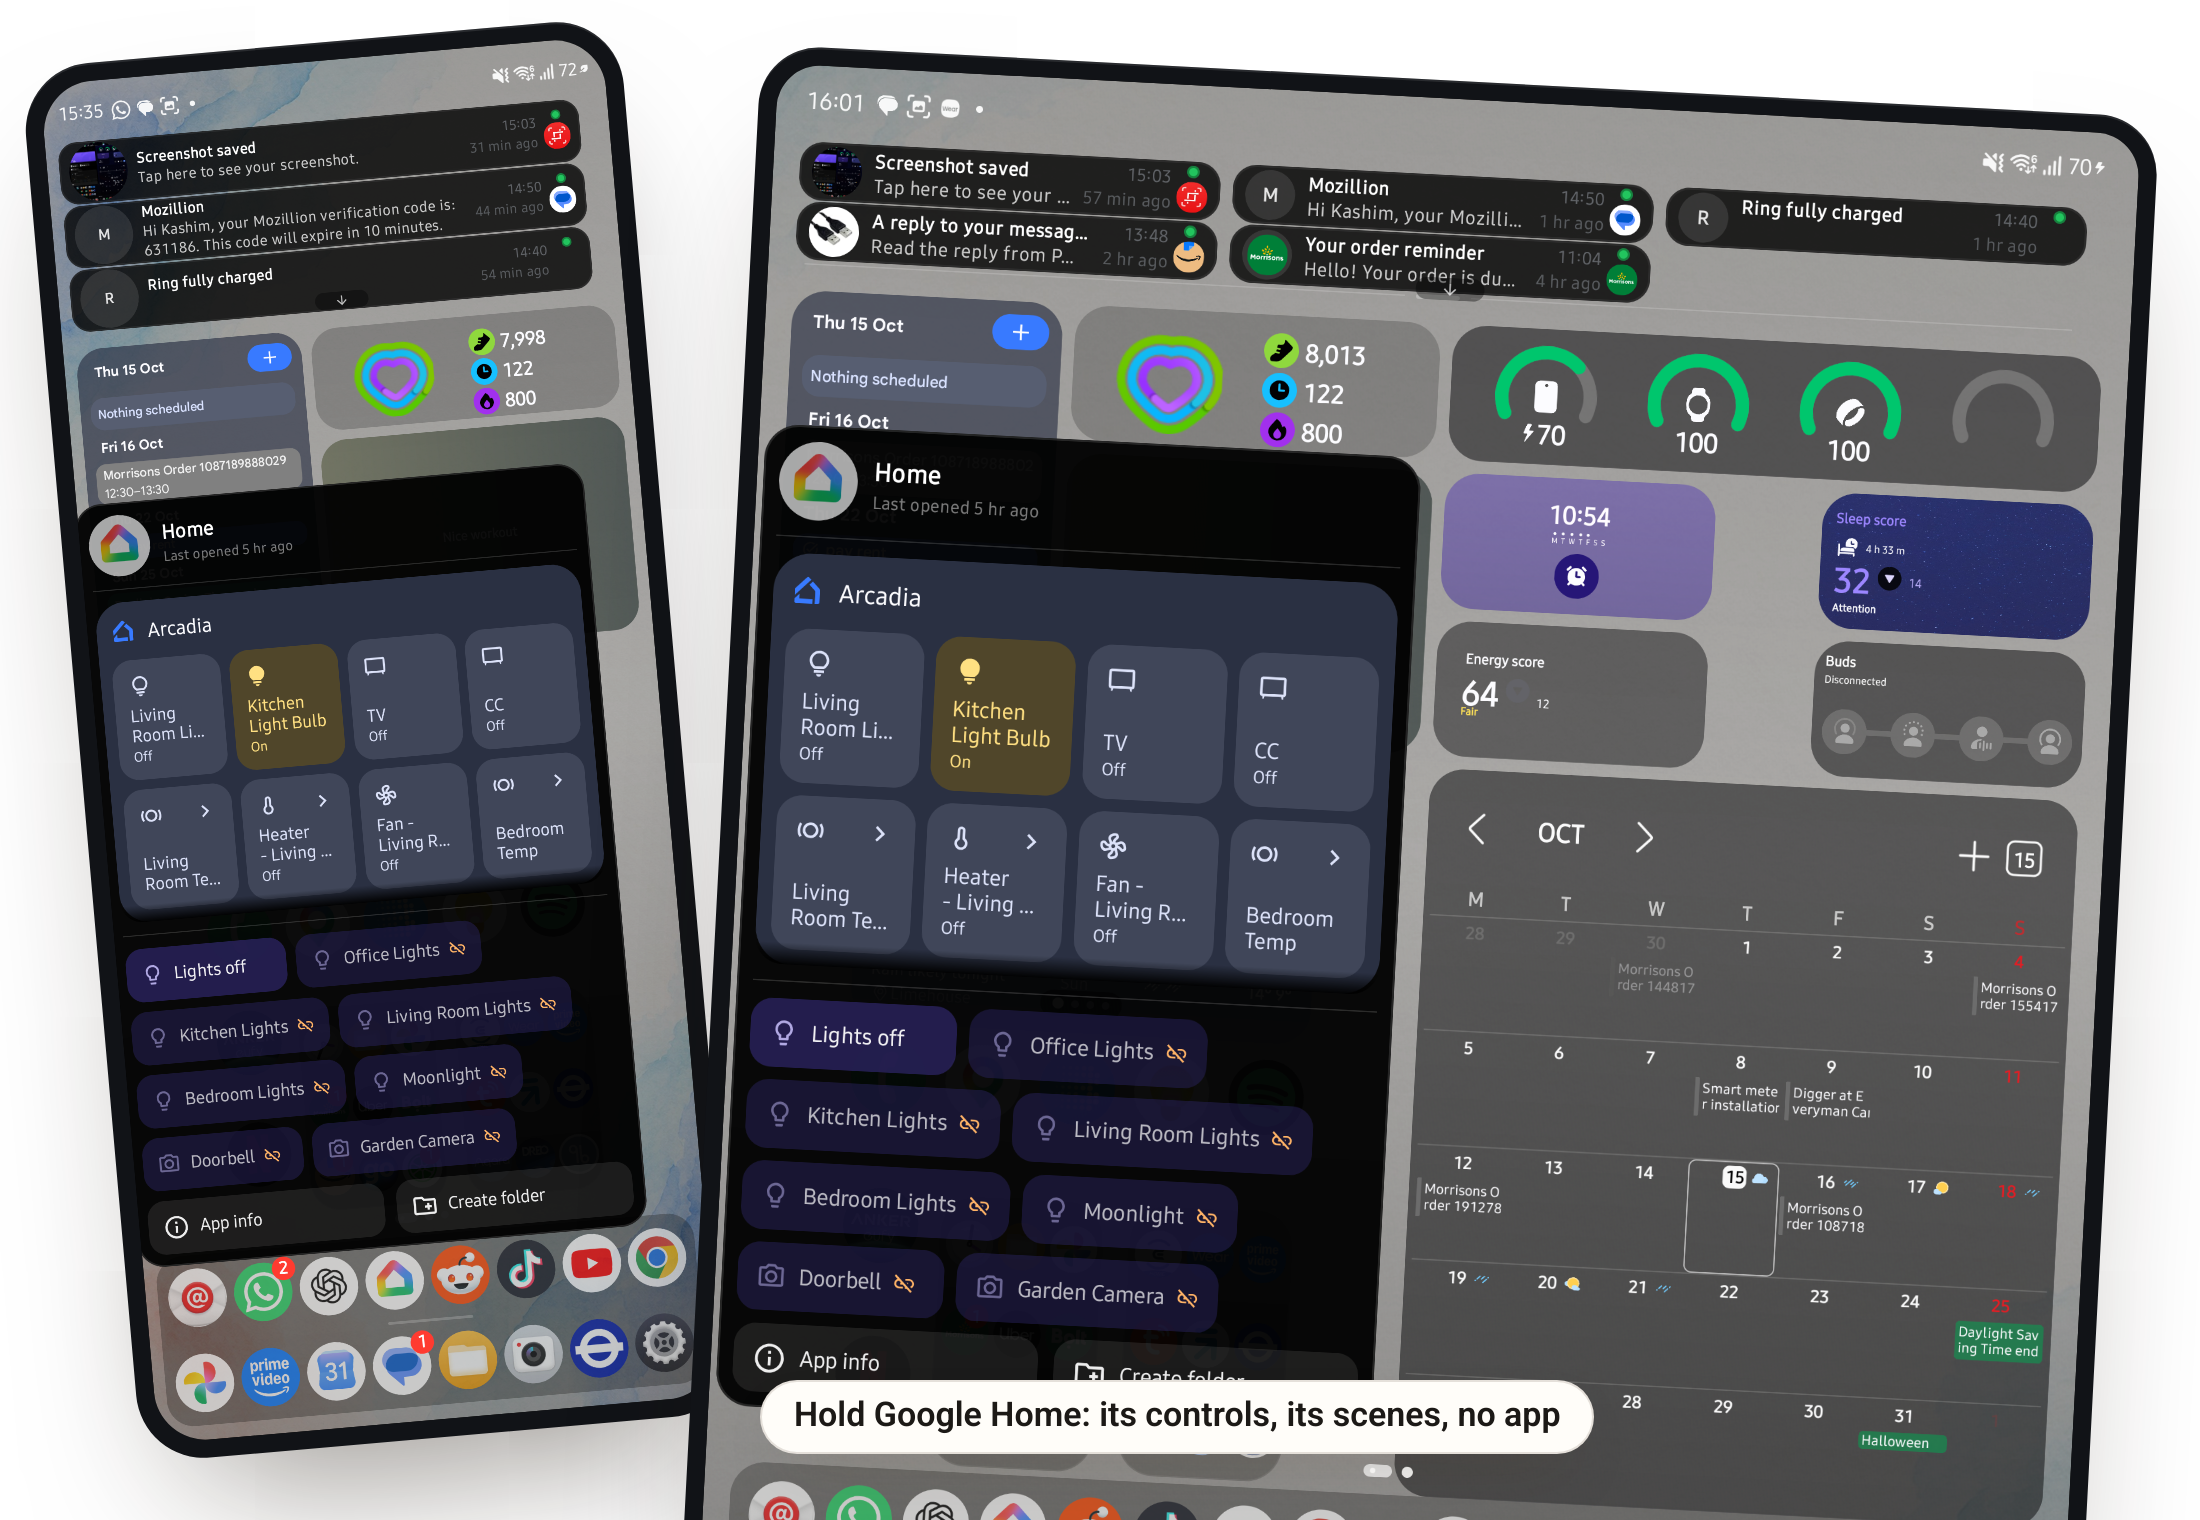
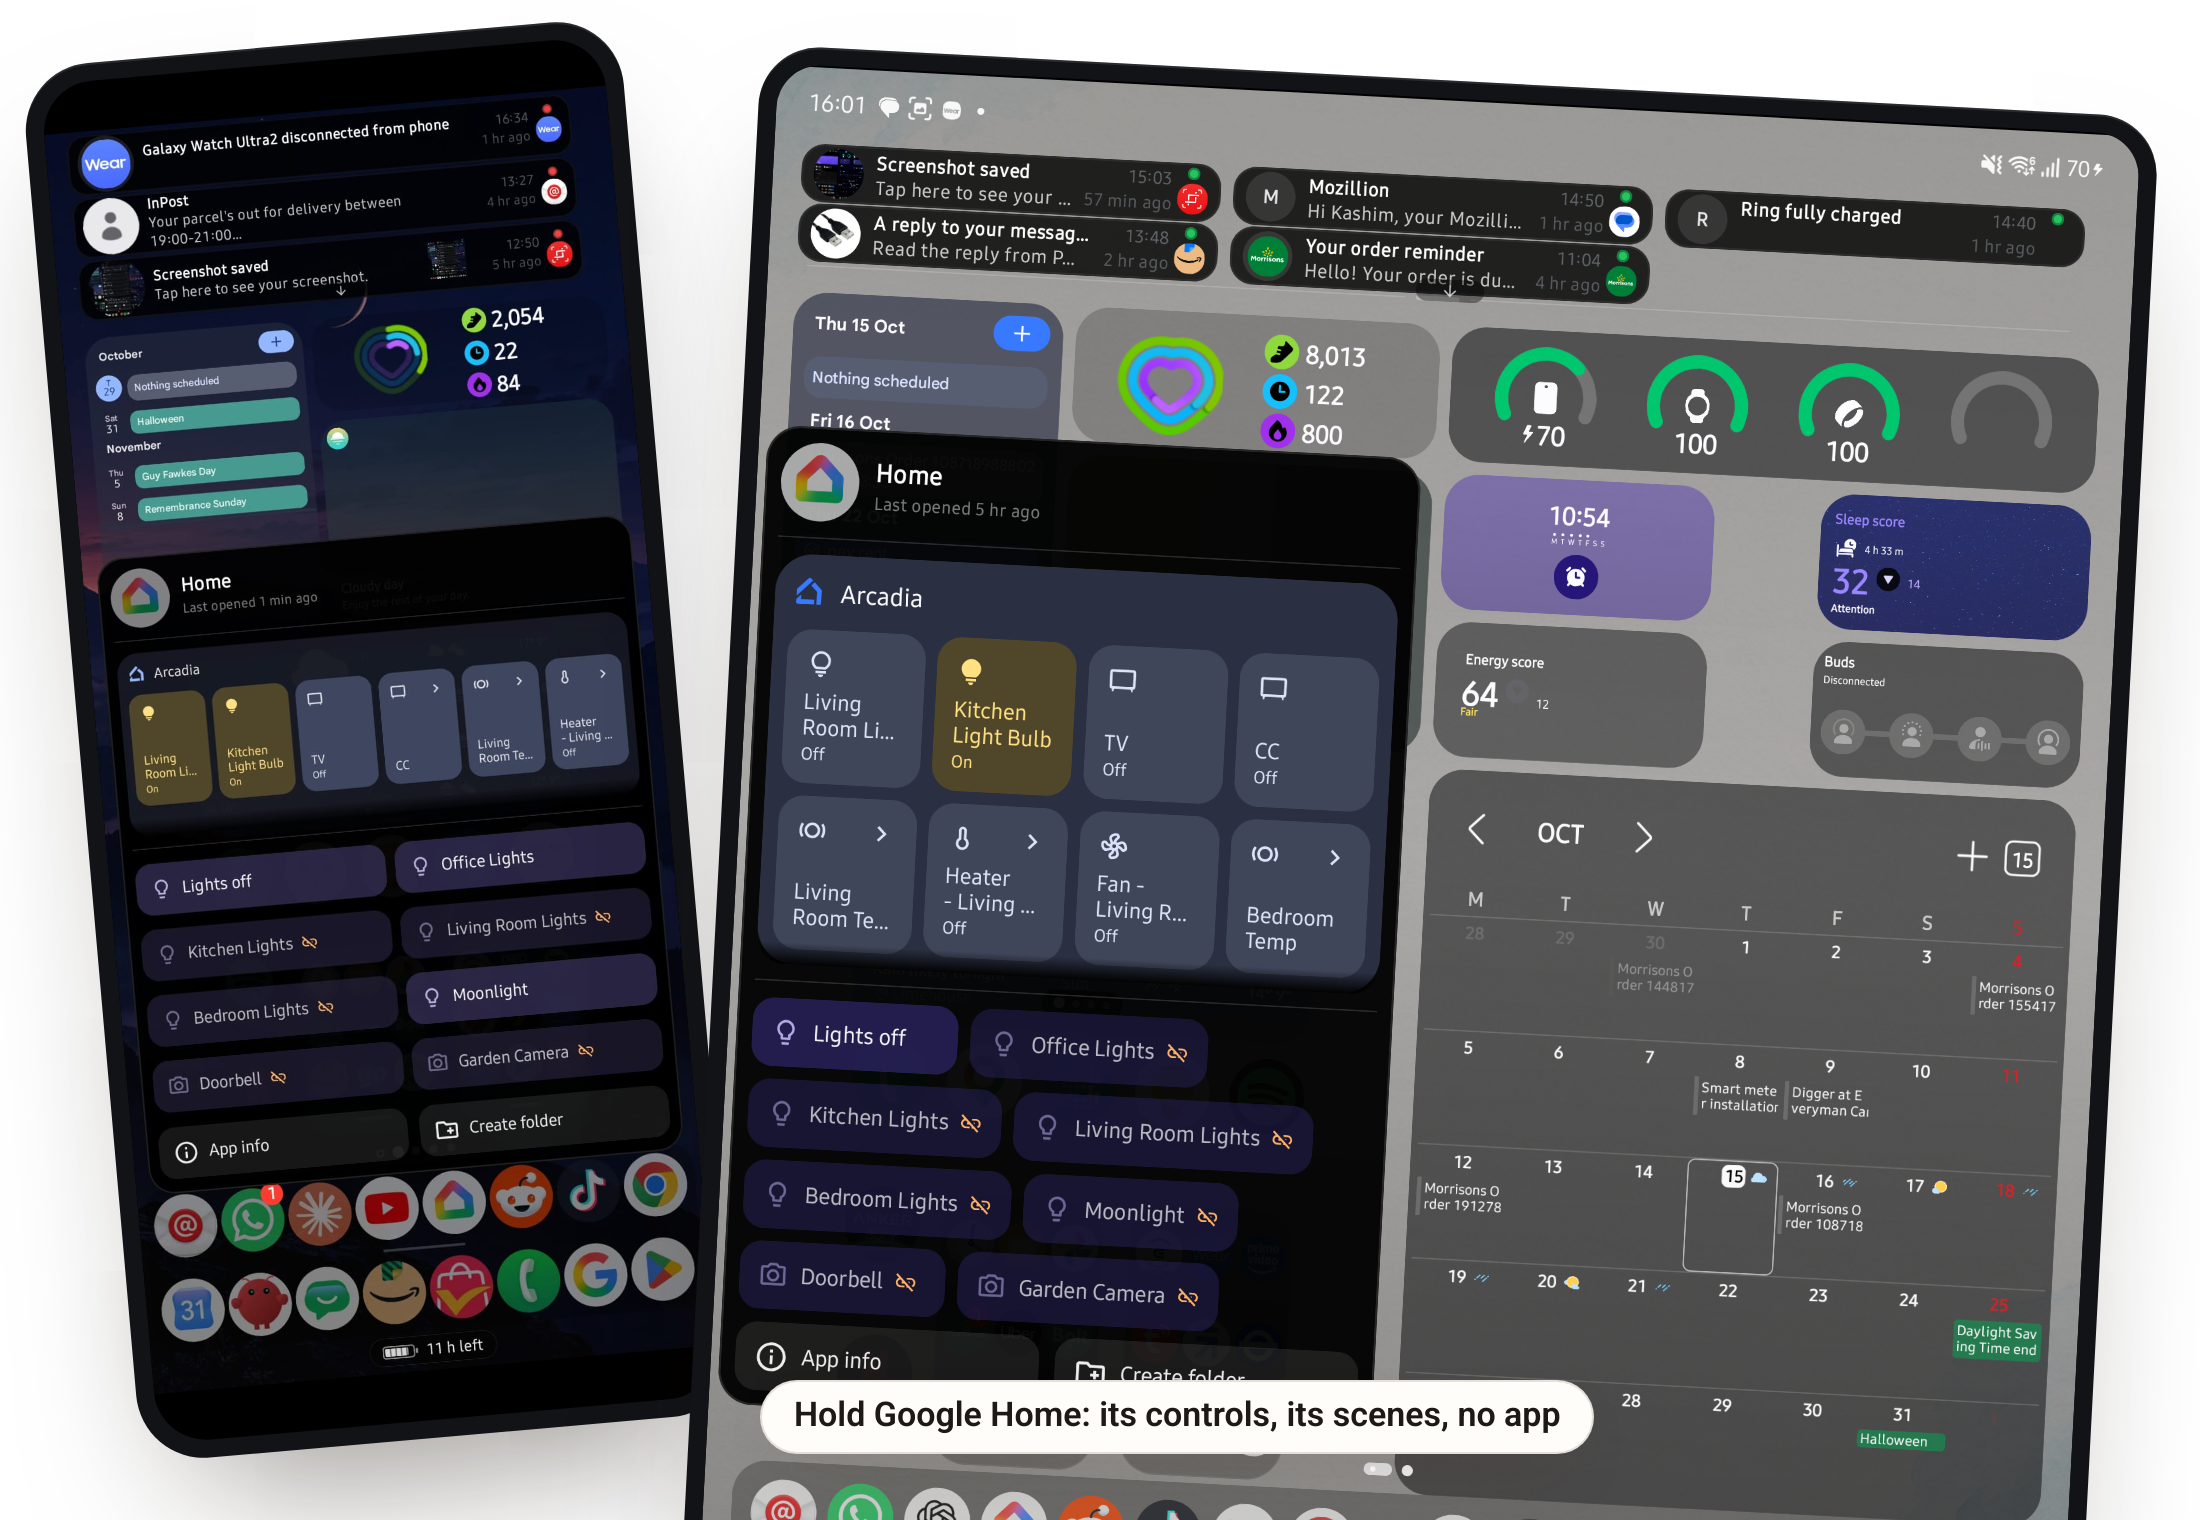
Refresh current Arcadia screenshots across product sections and gallery [skip ci]

diff --git a/index.html b/index.html
@@ -253,7 +253,7 @@
         </ul>
       </div>
       <figure class="split-media glow">
-        <img src="assets/app-blocks-editor.png" alt="The App Blocks editor listing eight named scenes, each with arrows to reorder and a button to place it on the home screen">
+        <img src="assets/current-20261030/app-blocks.png" alt="App Blocks settings with the Google Home demonstration, shortcut switch and scene editor">
         <figcaption>The App Blocks editor: rename each scene, move it up or down, or send it to the home screen as its own tile.</figcaption>
       </figure>
     </div>
@@ -275,7 +275,7 @@
     <div class="media-trio reveal">
       <figure class="trio-item tall">
         <div class="trio-media glow">
-          <img src="assets/icon-widgets.png" alt="The Icon widgets screen: a Carrying a widget list of eleven apps, each marked Compact or Large, above an Everything else list of the remaining apps">
+          <img src="assets/current-20261030/icon-widgets.png" alt="Icon widgets settings with its live-overlay demonstration, app search and assigned widgets">
         </div>
         <figcaption><strong>Hosted in a panel</strong> Assign one widget per app and it renders in that app's panel rather than consuming a home screen slot, in a compact or large size.</figcaption>
       </figure>
@@ -474,6 +474,22 @@
 
 </main>
 
+
+  <section class="current-screens section-wrap" aria-labelledby="current-screens-title">
+    <h2 id="current-screens-title">Inside Arcadia</h2>
+    <p>The latest Arcadia screens, captured on a real phone.</p>
+    <div class="current-screen-gallery">
+      <figure><img src="assets/current-20261030/held-google-home.png" alt="Arcadia Google Home, held" loading="lazy" width="536" height="1200"><figcaption>Google Home, held</figcaption></figure>
+      <figure><img src="assets/current-20261030/app-blocks.png" alt="Arcadia App Blocks" loading="lazy" width="536" height="1200"><figcaption>App Blocks</figcaption></figure>
+      <figure><img src="assets/current-20261030/icon-widgets.png" alt="Arcadia Icon widgets" loading="lazy" width="536" height="1200"><figcaption>Icon widgets</figcaption></figure>
+      <figure><img src="assets/current-20261030/icon-stacks.png" alt="Arcadia Icon stacks" loading="lazy" width="536" height="1200"><figcaption>Icon stacks</figcaption></figure>
+      <figure><img src="assets/current-20261030/media-controls.png" alt="Arcadia Media controls" loading="lazy" width="536" height="1200"><figcaption>Media controls</figcaption></figure>
+      <figure><img src="assets/current-20261030/game-launcher.png" alt="Arcadia Game launcher" loading="lazy" width="536" height="1200"><figcaption>Game launcher</figcaption></figure>
+      <figure><img src="assets/current-20261030/app-zero.png" alt="Arcadia App Zero" loading="lazy" width="536" height="1200"><figcaption>App Zero</figcaption></figure>
+      <figure><img src="assets/current-20261030/backup-and-restore.png" alt="Arcadia Backup and restore" loading="lazy" width="536" height="1200"><figcaption>Backup and restore</figcaption></figure>
+      <figure><img src="assets/current-20261030/permissions.png" alt="Arcadia Permissions" loading="lazy" width="536" height="1200"><figcaption>Permissions</figcaption></figure>
+    </div>
+  </section>
 <footer>
   <div class="foot-inner">
     <img src="assets/icon.png" alt="" width="28" height="28">

diff --git a/style.css b/style.css
@@ -830,3 +830,11 @@ footer{border-top:1px solid var(--line);padding:2.6rem clamp(1rem,4vw,2.5rem);ma
   .anim-media .knob{transform:translateX(43.9cqw)}
   .anim-media .disc{transform:rotate(320deg)}
 }
+
+/* Current real-device captures: no aspect distortion, scroll or clipping required. */
+.current-screens{max-width:1200px;margin:5rem auto;padding:0 1.5rem}
+.current-screen-gallery{display:grid;grid-template-columns:repeat(3,minmax(0,1fr));gap:1.5rem}
+.current-screen-gallery figure{margin:0;min-width:0}
+.current-screen-gallery img{display:block;width:100%;height:auto;border-radius:1rem;background:#050508}
+.current-screen-gallery figcaption{margin:.7rem 0 0;font-weight:600}
+@media(max-width:700px){.current-screen-gallery{grid-template-columns:repeat(2,minmax(0,1fr));gap:1rem}}
